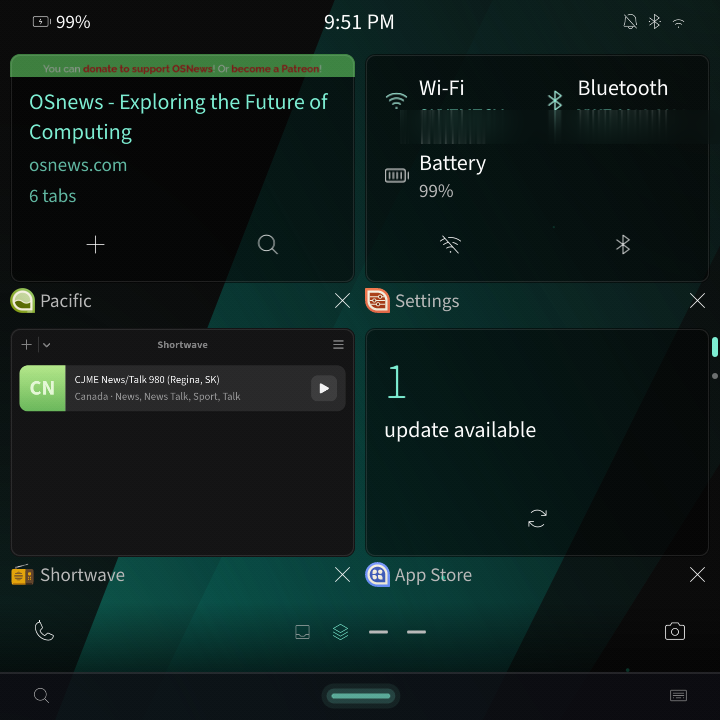
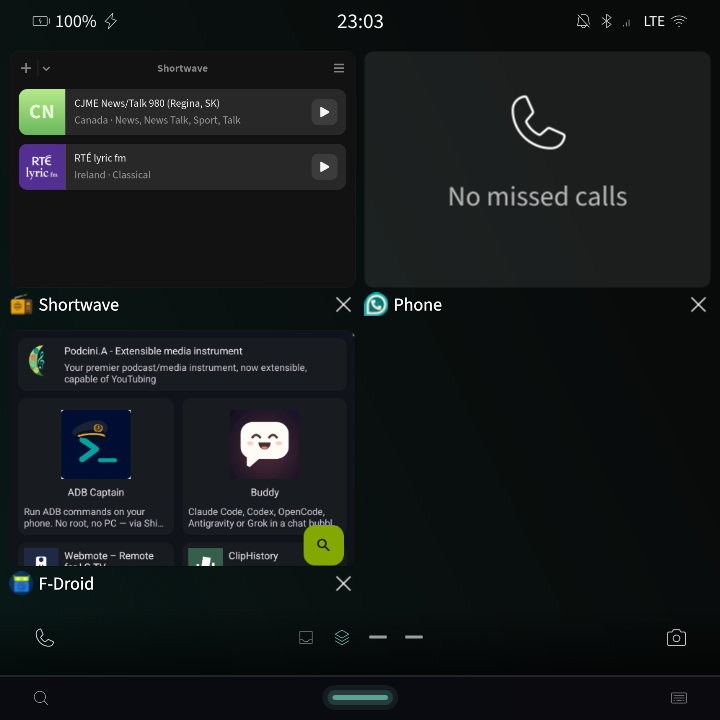
docs: README screenshots from the Q25 on 26112104
The same views on the current build, taken on the Zinwa Q25. F-Droid
replaces Markor, which is no longer installed, and the dialer replaces
the light Android app now that Android follows the dark theme.

Rules: G1, G3.

diff --git a/README.md b/README.md
@@ -31,10 +31,10 @@ download to a working phone. Zinwa Q25 images are on
 | <img src="screenshots/screen2.png" width="400" alt="Hub: notifications and weather"> | <img src="screenshots/screen3.png" width="400" alt="Hub weather sheet"> |
 | <img src="screenshots/screen4.png" width="400" alt="Quick settings"> | <img src="screenshots/screen5.png" width="400" alt="Lock screen"> |
 | <img src="screenshots/screen6.png" width="400" alt="Pacific browser"> | <img src="screenshots/screen7.png" width="400" alt="Native app (Shortwave, a Flatpak)"> |
-| <img src="screenshots/screen8.png" width="400" alt="Android app (Markor) through Deckard"> | <img src="screenshots/screen9.png" width="400" alt="Light Android app: the gesture bar turns light"> |
+| <img src="screenshots/screen8.png" width="400" alt="Android app (F-Droid) through Deckard"> | <img src="screenshots/screen9.png" width="400" alt="Phone: the dialer"> |
 | <img src="screenshots/screen10.png" width="400" alt="Settings: Android apps"> | |
 
-Screenshots are from the HackberryPi CM5 (720x720).
+Screenshots are from the Zinwa Q25 (720x720).
 
 ## Architecture
 
